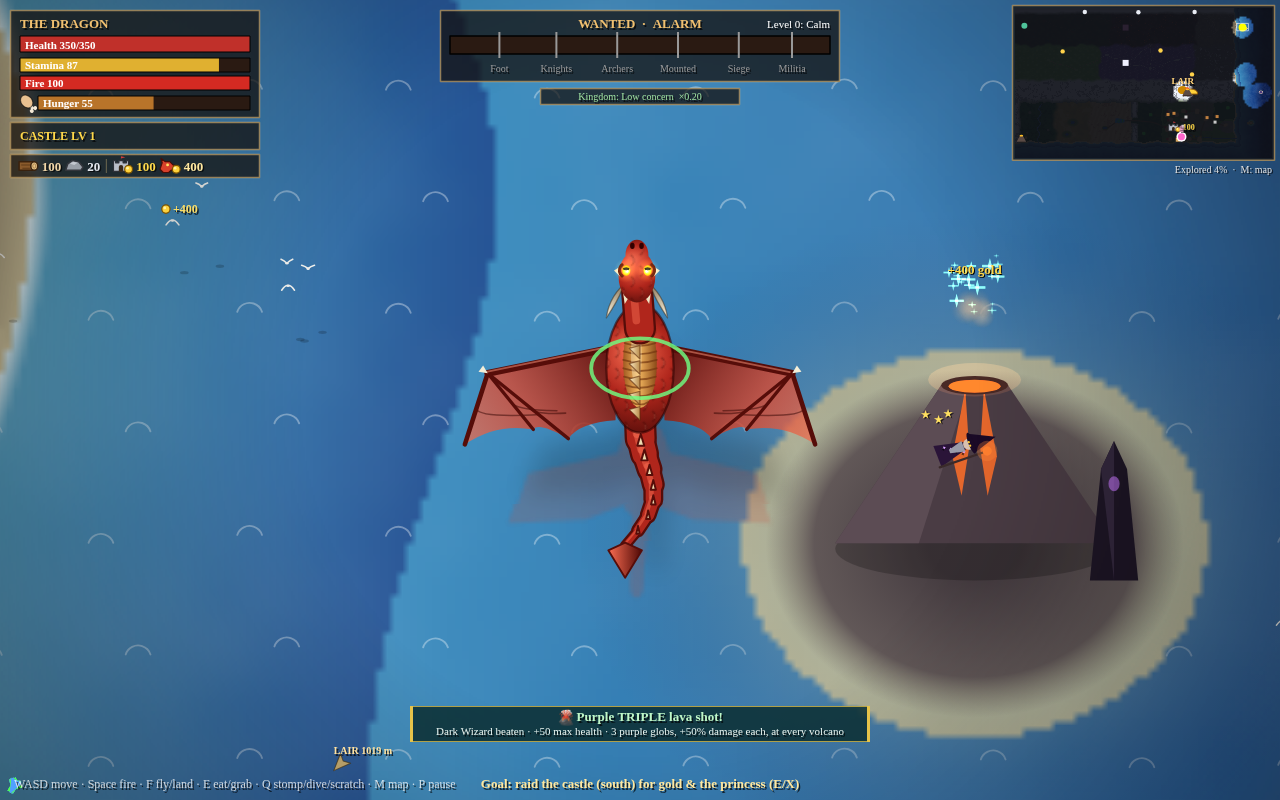
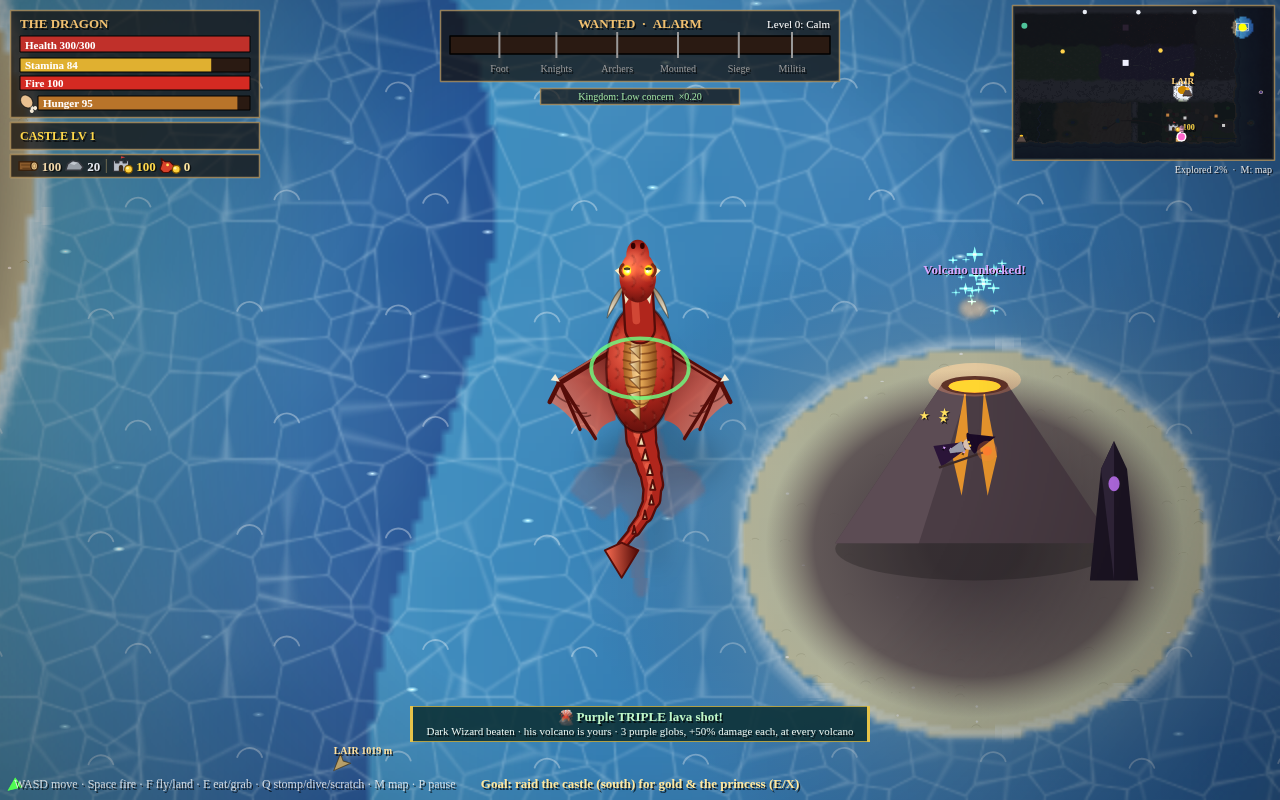
Dark Wizard reward: volcano + purple triple lava only (no gold/max health) (105); Cinder Isle volcano fully drinkable after he is beaten (106)

diff --git a/index.html b/index.html
@@ -9902,7 +9902,7 @@ if(typeof drawDecorHi==='function'){const _dh=drawDecorHi;drawDecorHi=function(o
 //  - PURPLE LIGHTNING: telegraphed ring, then a purple bolt (8 dmg vs 6, radius 95 vs 90).
 // Beaten (104): stays beaten for good - saved, kept through level-ups (only a brand-new game after losing the dragon resets him). Reward: +50 max health, +400 gold,
 // his volcano unlocks for lava drinking and the LAVA SHOT is upgraded at EVERY volcano (102/103): a dark-purple TRIPLE shot (spread 0.14 rad) with +50% splash damage.
-const DWV={x:9700,y:-9000,r:250,H:170,drinkR:190,name:'Cinder Isle'},DW_HP=525,DW_DMG={lava:13,erupt:6,bolt:8},DW_KB=1300,DW_GOLD=400,DW_GAIN=50,DW_SPIRE=520;
+const DWV={x:9700,y:-9000,r:250,H:170,drinkR:190,name:'Cinder Isle'},DW_HP=525,DW_DMG={lava:13,erupt:6,bolt:8},DW_KB=1300,DW_GOLD=0,DW_GAIN=0,/* QUEUE 105: no gold / max-health reward; the volcano + purple triple lava ARE the reward */DW_SPIRE=520;
 const DWL={n:3,spread:.14,mul:1.5};
 const DWB={on:false,hp:0,maxHp:0,cd:2,spell:0,shots:[],marks:[],erupts:[],koT:0,said:0,hitT:0,cast:0,stats:{lava:0,bolt:0,erupt:0}};
 function onDwIsle(x,y){const dx=x-DWV.x,dy=(y-DWV.y)*1.2;return dx*dx+dy*dy<DWV.r*DWV.r;}
@@ -9938,8 +9938,8 @@ function dwUpd(dt){if(!G||G.over)return;const dd=Math.hypot(D.x-DWV.x,D.y-DWV.y)
       D.nrKb={vx:Math.cos(a)*DW_KB,vy:Math.sin(a)*DW_KB*.8,t:.7};float(D.x,D.y-heightOf()-80,'KABOOM! Blown back!','#ff9a4a');G.dwKb=(G.dwKb||0)+1;}}
   DWB.shots=DWB.shots.filter(s=>!s.done);DWB.marks=DWB.marks.filter(m=>!m.done||m.flash>0);DWB.erupts=DWB.erupts.filter(w=>w.t<1.6);}
 function dwDefeat(){DWB.on=false;G.dwDown=1;G.dwHp=0;G.dwWins=(G.dwWins||0)+1;G.lavaUp=1;const t=dwTop();puff(t.x,t.y,14,'rgba(200,160,255,',90,10);sparkle(t.x,t.y,22);
-  D.gold=(D.gold||0)+DW_GOLD;D.hpBonus=(D.hpBonus||0)+DW_GAIN;D.maxHp+=DW_GAIN;D.hp=D.maxHp;D.healFx=1;float(t.x,t.y-40,`+${DW_GOLD} gold`,'#ffd84a');
-  boostAlert('🌋 Purple TRIPLE lava shot!',`Dark Wizard beaten · +${DW_GAIN} max health · 3 purple globs, +${Math.round((DWL.mul-1)*100)}% damage each, at every volcano`);
+  D.hp=D.maxHp;D.healFx=1;float(t.x,t.y-40,'Volcano unlocked!','#d8a8ff');
+  boostAlert('🌋 Purple TRIPLE lava shot!',`Dark Wizard beaten · his volcano is yours · 3 purple globs, +${Math.round((DWL.mul-1)*100)}% damage each, at every volcano`);
   try{achEv('dwizard');}catch(e){}try{horn();}catch(e){}}
 // hits on him / his volcano / his spire all drain the shield
 function dwNear(x,y,r){return Math.hypot(x-DWV.x,(y-DWV.y)*1.2)<DWV.r*.6+(r||0)||Math.hypot(x-dwSpire().x,y-dwSpire().y)<60+(r||0);}
@@ -9966,9 +9966,10 @@ function dwEdible(){return dwDown()&&!G.dwEaten&&scene==='play';}
   return _te.apply(this,arguments);};}
 {const _t=nrTick;nrTick=function(dt){_t(dt);if(scene==='play'&&G)dwUpd(dt);};}
 // ---- 102: his volcano is drinkable once he is beaten; the triple purple lava shot at every volcano ----
-function nearDW(){return dwDown()&&D&&D.mode==='ground'&&D.alt<.3&&!D.swim&&Math.hypot(D.x-DWV.x,D.y-DWV.y)<DWV.drinkR+60;}
+function dwEatRange(){const mx=D.x+Math.cos(D.ang)*60,my=D.y+Math.sin(D.ang)*60;return Math.min(Math.hypot(D.x-DWV.x,D.y-DWV.y),Math.hypot(mx-DWV.x,my-DWV.y))<200;}
+function nearDW(){return dwDown()&&D&&!(dwEdible()&&dwEatRange())&&D.mode==='ground'&&D.alt<.3&&!D.swim&&Math.hypot(D.x-DWV.x,D.y-DWV.y)<DWV.drinkR+60;}
 {const _n=nearLava;nearLava=function(){return _n.apply(this,arguments)||nearDW();};}
-{const _l=lavaDrink;lavaDrink=function(){if(nearDW()){const ox=VOLC.x,oy=VOLC.y;VOLC.x=DWV.x;VOLC.y=DWV.y;try{const r=_l.apply(this,arguments);if(r)G.dwDrinks=(G.dwDrinks||0)+1;return r;}finally{VOLC.x=ox;VOLC.y=oy;}}
+{const _l=lavaDrink;lavaDrink=function(){if(dwEdible()&&D&&dwEatRange())return false;/* 106: the dizzy wizard on the rim is gulped first, then E drinks */if(nearDW()){const ox=VOLC.x,oy=VOLC.y;VOLC.x=DWV.x;VOLC.y=DWV.y;try{const r=_l.apply(this,arguments);if(r)G.dwDrinks=(G.dwDrinks||0)+1;return r;}finally{VOLC.x=ox;VOLC.y=oy;}}
   if(!dwDown()&&D&&Math.hypot(D.x-DWV.x,D.y-DWV.y)<DWV.drinkR+60&&D.alt<.3&&!(G.dwLockT>G.t)){G.dwLockT=G.t+3;float(D.x,D.y-90,'The Dark Wizard\'s shield keeps you from the lava!','#e0c8ff');}
   return _l.apply(this,arguments);};}
 {const _lf=lavaFire;lavaFire=function(dt){const n0=LGLOBS.length;const r=_lf.apply(this,arguments);if(G&&G.lavaUp&&LGLOBS.length===n0+1){const g=LGLOBS[n0];g.dw=1;
@@ -10029,7 +10030,7 @@ function dwReset(){Object.assign(DWB,{on:false,hp:0,maxHp:0,cd:2,spell:0,shots:[
 if(typeof tallyAddSect==='function')tallyAddSect('nrdark','Northern Realms · Dark lands','👹','#9ad06a',[['dwizard','Dark Wizard']]);
 {const _ab=achBuild;achBuild=function(){const L=_ab.apply(this,arguments),i=L.findIndex(a=>a.id==='wizEat'),A=(id,name,how,ok,o)=>Object.assign({sec:'boss',id,name,how,ok},o||{});
   L.splice(i<0?L.length:i+1,0,A('dwizard','Volcano Tamer',"Break the Dark Wizard's shield on his volcano isle in the dark northern sea",()=>!!ACH.ev.dwizard||achG('dwWins')>0,
-      {rew:()=>`+${DW_GAIN} max health, +${DW_GOLD} gold · purple TRIPLE lava shot at every volcano (+${Math.round((DWL.mul-1)*100)}% damage each) · his volcano unlocks`}),
+      {rew:()=>`Purple TRIPLE lava shot at every volcano (+${Math.round((DWL.mul-1)*100)}% damage each) · his volcano unlocks`}),
     A('dwEat','Spicy Snack','Gobble the dizzy Dark Wizard after breaking his shield',()=>!!ACH.ev.dwEat||achG('dwEatenN')>0));return L;};}
 {const _w=wzClearFloes;wzClearFloes=function(){_w();if(OC&&OC.floes)OC.floes=OC.floes.filter(f=>Math.hypot(f.x-DWV.x,(f.y-DWV.y)*1.2)>DWV.r+Math.max(f.rx,f.ry)+250);};}
 // ======================= queue 98: the weather turns stormier near the Wizard's Isle =======================

diff --git a/partNR.js b/partNR.js
@@ -2438,7 +2438,7 @@ if(typeof drawDecorHi==='function'){const _dh=drawDecorHi;drawDecorHi=function(o
 //  - PURPLE LIGHTNING: telegraphed ring, then a purple bolt (8 dmg vs 6, radius 95 vs 90).
 // Beaten (104): stays beaten for good - saved, kept through level-ups (only a brand-new game after losing the dragon resets him). Reward: +50 max health, +400 gold,
 // his volcano unlocks for lava drinking and the LAVA SHOT is upgraded at EVERY volcano (102/103): a dark-purple TRIPLE shot (spread 0.14 rad) with +50% splash damage.
-const DWV={x:9700,y:-9000,r:250,H:170,drinkR:190,name:'Cinder Isle'},DW_HP=525,DW_DMG={lava:13,erupt:6,bolt:8},DW_KB=1300,DW_GOLD=400,DW_GAIN=50,DW_SPIRE=520;
+const DWV={x:9700,y:-9000,r:250,H:170,drinkR:190,name:'Cinder Isle'},DW_HP=525,DW_DMG={lava:13,erupt:6,bolt:8},DW_KB=1300,DW_GOLD=0,DW_GAIN=0,/* QUEUE 105: no gold / max-health reward; the volcano + purple triple lava ARE the reward */DW_SPIRE=520;
 const DWL={n:3,spread:.14,mul:1.5};
 const DWB={on:false,hp:0,maxHp:0,cd:2,spell:0,shots:[],marks:[],erupts:[],koT:0,said:0,hitT:0,cast:0,stats:{lava:0,bolt:0,erupt:0}};
 function onDwIsle(x,y){const dx=x-DWV.x,dy=(y-DWV.y)*1.2;return dx*dx+dy*dy<DWV.r*DWV.r;}
@@ -2474,8 +2474,8 @@ function dwUpd(dt){if(!G||G.over)return;const dd=Math.hypot(D.x-DWV.x,D.y-DWV.y)
       D.nrKb={vx:Math.cos(a)*DW_KB,vy:Math.sin(a)*DW_KB*.8,t:.7};float(D.x,D.y-heightOf()-80,'KABOOM! Blown back!','#ff9a4a');G.dwKb=(G.dwKb||0)+1;}}
   DWB.shots=DWB.shots.filter(s=>!s.done);DWB.marks=DWB.marks.filter(m=>!m.done||m.flash>0);DWB.erupts=DWB.erupts.filter(w=>w.t<1.6);}
 function dwDefeat(){DWB.on=false;G.dwDown=1;G.dwHp=0;G.dwWins=(G.dwWins||0)+1;G.lavaUp=1;const t=dwTop();puff(t.x,t.y,14,'rgba(200,160,255,',90,10);sparkle(t.x,t.y,22);
-  D.gold=(D.gold||0)+DW_GOLD;D.hpBonus=(D.hpBonus||0)+DW_GAIN;D.maxHp+=DW_GAIN;D.hp=D.maxHp;D.healFx=1;float(t.x,t.y-40,`+${DW_GOLD} gold`,'#ffd84a');
-  boostAlert('🌋 Purple TRIPLE lava shot!',`Dark Wizard beaten · +${DW_GAIN} max health · 3 purple globs, +${Math.round((DWL.mul-1)*100)}% damage each, at every volcano`);
+  D.hp=D.maxHp;D.healFx=1;float(t.x,t.y-40,'Volcano unlocked!','#d8a8ff');
+  boostAlert('🌋 Purple TRIPLE lava shot!',`Dark Wizard beaten · his volcano is yours · 3 purple globs, +${Math.round((DWL.mul-1)*100)}% damage each, at every volcano`);
   try{achEv('dwizard');}catch(e){}try{horn();}catch(e){}}
 // hits on him / his volcano / his spire all drain the shield
 function dwNear(x,y,r){return Math.hypot(x-DWV.x,(y-DWV.y)*1.2)<DWV.r*.6+(r||0)||Math.hypot(x-dwSpire().x,y-dwSpire().y)<60+(r||0);}
@@ -2502,9 +2502,10 @@ function dwEdible(){return dwDown()&&!G.dwEaten&&scene==='play';}
   return _te.apply(this,arguments);};}
 {const _t=nrTick;nrTick=function(dt){_t(dt);if(scene==='play'&&G)dwUpd(dt);};}
 // ---- 102: his volcano is drinkable once he is beaten; the triple purple lava shot at every volcano ----
-function nearDW(){return dwDown()&&D&&D.mode==='ground'&&D.alt<.3&&!D.swim&&Math.hypot(D.x-DWV.x,D.y-DWV.y)<DWV.drinkR+60;}
+function dwEatRange(){const mx=D.x+Math.cos(D.ang)*60,my=D.y+Math.sin(D.ang)*60;return Math.min(Math.hypot(D.x-DWV.x,D.y-DWV.y),Math.hypot(mx-DWV.x,my-DWV.y))<200;}
+function nearDW(){return dwDown()&&D&&!(dwEdible()&&dwEatRange())&&D.mode==='ground'&&D.alt<.3&&!D.swim&&Math.hypot(D.x-DWV.x,D.y-DWV.y)<DWV.drinkR+60;}
 {const _n=nearLava;nearLava=function(){return _n.apply(this,arguments)||nearDW();};}
-{const _l=lavaDrink;lavaDrink=function(){if(nearDW()){const ox=VOLC.x,oy=VOLC.y;VOLC.x=DWV.x;VOLC.y=DWV.y;try{const r=_l.apply(this,arguments);if(r)G.dwDrinks=(G.dwDrinks||0)+1;return r;}finally{VOLC.x=ox;VOLC.y=oy;}}
+{const _l=lavaDrink;lavaDrink=function(){if(dwEdible()&&D&&dwEatRange())return false;/* 106: the dizzy wizard on the rim is gulped first, then E drinks */if(nearDW()){const ox=VOLC.x,oy=VOLC.y;VOLC.x=DWV.x;VOLC.y=DWV.y;try{const r=_l.apply(this,arguments);if(r)G.dwDrinks=(G.dwDrinks||0)+1;return r;}finally{VOLC.x=ox;VOLC.y=oy;}}
   if(!dwDown()&&D&&Math.hypot(D.x-DWV.x,D.y-DWV.y)<DWV.drinkR+60&&D.alt<.3&&!(G.dwLockT>G.t)){G.dwLockT=G.t+3;float(D.x,D.y-90,'The Dark Wizard\'s shield keeps you from the lava!','#e0c8ff');}
   return _l.apply(this,arguments);};}
 {const _lf=lavaFire;lavaFire=function(dt){const n0=LGLOBS.length;const r=_lf.apply(this,arguments);if(G&&G.lavaUp&&LGLOBS.length===n0+1){const g=LGLOBS[n0];g.dw=1;
@@ -2565,7 +2566,7 @@ function dwReset(){Object.assign(DWB,{on:false,hp:0,maxHp:0,cd:2,spell:0,shots:[
 if(typeof tallyAddSect==='function')tallyAddSect('nrdark','Northern Realms · Dark lands','👹','#9ad06a',[['dwizard','Dark Wizard']]);
 {const _ab=achBuild;achBuild=function(){const L=_ab.apply(this,arguments),i=L.findIndex(a=>a.id==='wizEat'),A=(id,name,how,ok,o)=>Object.assign({sec:'boss',id,name,how,ok},o||{});
   L.splice(i<0?L.length:i+1,0,A('dwizard','Volcano Tamer',"Break the Dark Wizard's shield on his volcano isle in the dark northern sea",()=>!!ACH.ev.dwizard||achG('dwWins')>0,
-      {rew:()=>`+${DW_GAIN} max health, +${DW_GOLD} gold · purple TRIPLE lava shot at every volcano (+${Math.round((DWL.mul-1)*100)}% damage each) · his volcano unlocks`}),
+      {rew:()=>`Purple TRIPLE lava shot at every volcano (+${Math.round((DWL.mul-1)*100)}% damage each) · his volcano unlocks`}),
     A('dwEat','Spicy Snack','Gobble the dizzy Dark Wizard after breaking his shield',()=>!!ACH.ev.dwEat||achG('dwEatenN')>0));return L;};}
 {const _w=wzClearFloes;wzClearFloes=function(){_w();if(OC&&OC.floes)OC.floes=OC.floes.filter(f=>Math.hypot(f.x-DWV.x,(f.y-DWV.y)*1.2)>DWV.r+Math.max(f.rx,f.ry)+250);};}
 // ======================= queue 98: the weather turns stormier near the Wizard's Isle =======================

diff --git a/README.md b/README.md
@@ -191,11 +191,11 @@ On **Cinder Isle**, a small ash-grey volcano island in the northern dark ocean (
   - **Lava shots:** 5 lava blobs, 13 damage each. These never melt in water.
   - **Eruption:** his volcano erupts in a ring that grows to 900 px over 1.5 s: 6 damage and a strong knockback (stronger than the wind wall's push).
   - **Purple lightning:** a purple mark appears for 1 s, then the bolt hits for 8 damage.
-- **Beat him:** +400 gold, **+50 max health**, a full heal, the *Volcano Tamer* achievement and a horn. He lies dizzy and can be eaten (+40 HP, *Spicy Snack* achievement). His spire can then be smashed for +100 gold.
+- **Beat him:** your reward is **his volcano and the purple triple lava shot** (below), plus a full heal, the *Volcano Tamer* achievement and a horn. There is no gold or max-health bonus for beating him. He lies dizzy and can be eaten (+40 HP, *Spicy Snack* achievement). His spire can then be smashed for +100 gold.
 - **He stays beaten** through every level-up and save/load; he never respawns in that game. Starting a new game (after your dragon is defeated) brings him back, like the Storm Wizard.
 
-## Purple TRIPLE lava (Dark Wizard reward)
-Beating the Dark Wizard unlocks **his volcano for lava drinking** (20 shots, like the others; before that his shield keeps you away) and upgrades lava at **every** volcano (Mount Cinder, Mount Ember and Cinder Isle). A small alert announces it: *"🌋 Purple TRIPLE lava shot!"*.
+## Purple TRIPLE lava (the Dark Wizard's reward)
+Beating the Dark Wizard unlocks **his volcano for lava drinking**: land anywhere by the crater on Cinder Isle and press **E** (pad X / touch DRINK). The rules are exactly the same as at Mount Cinder: a full load of 20 shots, an 8-second refill cooldown, and *Already full of lava!* when you are topped up. Before he is beaten, his shield keeps you away. While he lies dizzy on the rim, the first **E** gulps him and after that **E** drinks. The unlock is saved and kept through level-ups; only a new game resets it. and upgrades lava at **every** volcano (Mount Cinder, Mount Ember and Cinder Isle). A small alert announces it: *"🌋 Purple TRIPLE lava shot!"* (*Dark Wizard beaten · his volcano is yours · 3 purple globs, +50% damage each, at every volcano*).
 - Each lava press now lobs **3 dark-purple globs** (straight ahead and ±8°) for the cost of **1 lava**.
 - Each glob does **+50% damage**: units 30 → 45 (wet units 25 → 37.5), stone buildings 55 → 82.5, wooden buildings 60 → 90, ships 70 → 105, siege engines 70 → 105. Cooling puddles are unchanged (2 per tick).
 - The upgrade is saved and kept through every level-up. Like the Dark Wizard's beaten state, it resets only on a new game.
@@ -205,6 +205,8 @@ Beating the Dark Wizard unlocks **his volcano for lava drinking** (20 shots, lik
 | ![](screenshots/302_dark_wizard_volcano_fight.png) | ![](screenshots/303_dark_wizard_eruption.png) |
 | Beaten: triple lava unlocked | Purple triple lava shot |
 | ![](screenshots/304_dark_wizard_beaten_alert.png) | ![](screenshots/305_purple_triple_lava_shot.png) |
+| Volcano Tamer achievement hint | Drinking lava at Cinder Isle |
+| ![](screenshots/306_volcano_tamer_hint.png) | ![](screenshots/307_cinder_isle_drinking_lava.png) |
 
 ## Wanted tiers and the MILITIA
 The WANTED meter rises as you cause damage and cools down faster the farther you are from where the trouble was. Wild animals never raise it. The kingdom's response grows in tiers:
@@ -675,7 +677,7 @@ Open **🏆 Achievements** from the title menu (it shows *N of 74* right on the 
 What's in the list (74):
 - **Castle, hoard & princess:** first gold home, 500 / 2000 gold stashed, smashing the keep's roof, grabbing Princess Elizabeth (she is never harmed), flying her home (the ransom), castle levels 3, 5 and 10.
 - **Dragons & dragon eggs:** eat your first and 10th wild dragon egg, beat 1 and 5 wild dragons, carry home and hatch the **light (white) egg** from the Lumenspire Citadel and the **dark (black) egg** from the Doomforge Citadel (one achievement each, each hint names the guardian dragon you get), and the Glutton boost (eat a whale's worth of food).
-- **Bosses:** the wizard (defeat him, and gobble him), the Dark Wizard (*Volcano Tamer*, with a 🎁 *+400 gold · +50 max health · purple triple lava* hint, and *Spicy Snack* for eating him), the hydra, griffin, Nessie, the giant squid, the giant octopus, the sand worm, Medusa, Cerberus, and wrecking the jungle temple.
+- **Bosses:** the wizard (defeat him, and gobble him), the Dark Wizard (*Volcano Tamer*, with a 🎁 *Purple TRIPLE lava shot at every volcano (+50% damage each) · his volcano unlocks* hint, and *Spicy Snack* for eating him), the hydra, griffin, Nessie, the giant squid, the giant octopus, the sand worm, Medusa, Cerberus, and wrecking the jungle temple.
 - **Alpha guardians (first defeat of each type):** the savanna pride's male lion, the Deepwood's white alpha wolf, the jungle's silverback gorilla, the alpha hippo, the white alpha troll and the alpha centaur. **Alphas come back:** a new lion, wolf or silverback takes over about 60 s after you fly away, a new hippo wades in about 2 minutes later, and a new troll or centaur alpha arrives about 75 s later, so you can always find one.
 - **Hoard raids & royal fleets:** beat a hoard-raiding champion (1 and 5), pick up a gold sack a raiding knight dropped, stop a prince's royal war fleet, sink a royal warship.
 - **Kingdom:** stop a royal **trade ship at sea**, and separately stop a trade ship **on land** (unloading at the quay, or its carts unloading on shore), destroy the **rich desert caravan** (*+20 gold*), break the castle gate, wreck the barracks, topple 3 towers, knock down the lighthouse, wreck a catapult, stop a tax collector, defeat a knight, defeat 50 of King William's soldiers, burn 10 crop fields, knock down or burn 25 trees, and wreck 5 carts.
